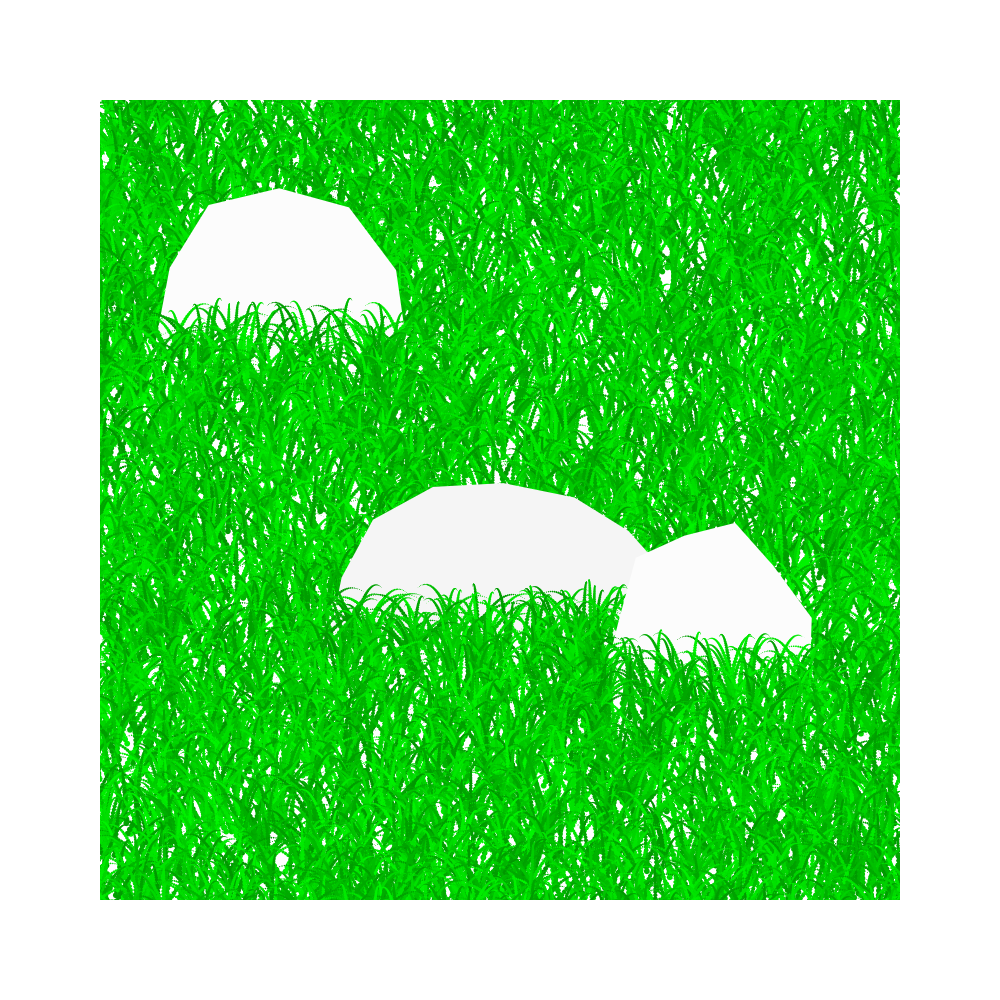
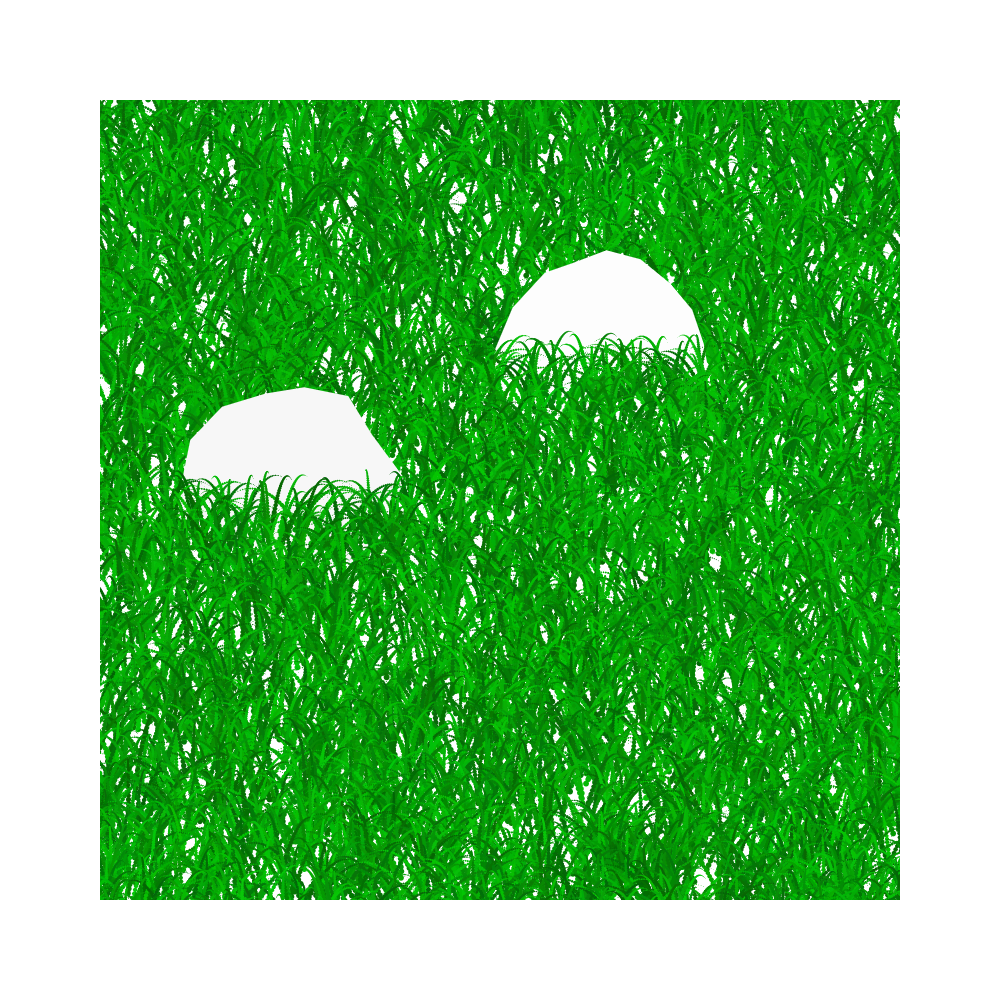
improvements in JAN23 + new outputs

diff --git a/JAN21-31/JAN23/sketch.js b/JAN21-31/JAN23/sketch.js
@@ -19,8 +19,8 @@ function setup() {
 function draw() {
   for (let i = 0; i < 24; i++) {
     let x0 = random(width);
-    let vel0 = p5.Vector.fromAngle(3*PI/2 + random(-1, 1)*PI/6, 2.5);
-    let p = new Particle(x0, y0, vel0, 3, [0, random(150, 245), 0]);
+    let vel0 = p5.Vector.fromAngle(3*PI/2 + random(-1, 1)*PI/6, random(2.4, 2.6));
+    let p = new Particle(x0, y0, vel0, random(2.9, 3.1), [random(10), random(100, 200), random(10)]);
     while (p.stillGrowing()) {
       p.update();
       p.draw();
@@ -66,7 +66,7 @@ function Particle(x0, y0, vel0, d0, col) {
 }
 
 function drawRock(x0, y0) {
-  let thetaStep = PI/floor(random(6, 10));
+  let thetaStep = PI/floor(random(7, 11));
   let rw0 = random(50, 100);
   let rh0 = random(50, 100);
   fill(random(245, 255));
